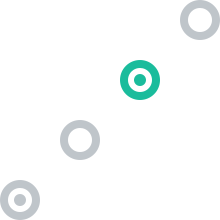
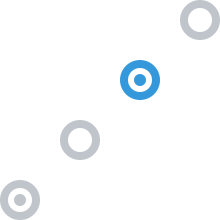
Restyle core pages for flat ui.

Changed region(s): [[0.5455, 0.2727, 0.7364, 0.4636]]

diff --git a/SasquatchCAIRS/SasquatchCAIRS/Content/Site.css b/SasquatchCAIRS/SasquatchCAIRS/Content/Site.css
@@ -1,5 +1,5 @@
 html {
-    background-color: #e2e2e2;
+    background-color: #eceff1;
     margin: 0;
     padding: 0;
 }
@@ -8,13 +8,12 @@ body {
     background-color: #023187;
     color: #333;
     font-size: .85em;
-    font-family: "Segoe UI", Verdana, Helvetica, Sans-Serif;
     margin: 0;
     padding: 0;
 }
 
 a {
-    color: #333;
+    /*color: #333;*/
     outline: none;
     padding-left: 3px;
     padding-right: 3px;
@@ -65,36 +64,10 @@ mark {
 
 h1, h2, h3,
 h4, h5, h6 {
-    color: #000;
+    color: #34495e;
     margin-bottom: 0;
     padding-bottom: 0;
 }
-
-h1 {
-    font-size: 2em;
-}
-
-h2 {
-    font-size: 1.75em;
-}
-
-h3 {
-    font-size: 1.2em;
-}
-
-h4 {
-    font-size: 1.1em;
-}
-
-h5, h6 {
-    font-size: 1em;
-}
-
-    h5 a:link, h5 a:visited, h5 a:active {
-        padding: 0;
-        text-decoration: none;
-    }
-
 
 /* main layout
 ----------------------------------------------------------*/
@@ -111,7 +84,7 @@ h5, h6 {
 }
 
 #body {
-    background-color: #efeeef;
+    background-color: #fafafa;
     clear: both;
     padding-bottom: 35px;
 }
@@ -127,10 +100,10 @@ header .content-wrapper {
 
 footer {
     clear: both;
-    background-color: #e2e2e2;
-    font-size: .9em;
-    padding-top: 10px;
-    height: 100px;
+    font-size: 13px;
+    padding-top: 12px;
+    height: 30px;
+    color: #34495e;
 }
 
 
@@ -429,59 +402,11 @@ fieldset {
         }
 
 label {
-    display: block;
-    font-size: 1.2em;
-    font-weight: 600;
+    padding-top: 2px;
 }
 
-label.checkbox {
-    display: inline;
-}
-
-input, textarea {
-    border: 1px solid #e2e2e2;
-    background: #fff;
-    color: #333;
-    font-size: 1.2em;
-    margin: 5px 0 6px 0;
-    padding: 5px;
-    width: 300px;
-}
-
-textarea {
-    font-family: inherit;
-    width: 500px;
-}
-
-    input:focus, textarea:focus {
-        border: 1px solid #7ac0da;
-    }
-
-    input[type="checkbox"] {
-        background: transparent;
-        border: inherit;
-        width: auto;
-    }
-
-    input[type="submit"],
-    input[type="button"],
-    button {
-        background-color: #d3dce0;
-        border: 1px solid #787878;
-        cursor: pointer;
-        font-size: 1.2em;
-        font-weight: 600;
-        padding: 7px;
-        margin-right: 8px;
-        width: auto;
-    }
-
-    td input[type="submit"],
-    td input[type="button"],
-    td button {
-        font-size: 1em;
-        padding: 4px;
-        margin-right: 4px;
+    label.checkbox {
+        display: inline;
     }
 
 /* info and errors */

diff --git a/SasquatchCAIRS/SasquatchCAIRS/Content/flat-ui.css b/SasquatchCAIRS/SasquatchCAIRS/Content/flat-ui.css
@@ -810,7 +810,7 @@ input[type="search"],
 input[type="tel"],
 input[type="color"],
 .uneditable-input {
-  border: 1px solid #dce4ec;
+  border: 2px solid #dce4ec;
   color: #34495e;
   font-family: "Lato", sans-serif;
   font-size: 14px;
@@ -1080,7 +1080,8 @@ textarea,
   -webkit-backface-visibility: hidden; }
   .checkbox:hover,
   .radio:hover {
-    color: #1abc9c; }
+    color: #3498db
+    ; }
   .checkbox input,
   .radio input {
     outline: none !important;
@@ -1852,7 +1853,7 @@ footer {
     color: #a1a4a7;
     font-weight: 700; }
   footer p {
-    font-size: 15px;
+    font-size: 13px;
     line-height: 20px; }
 
 .footer-title {
